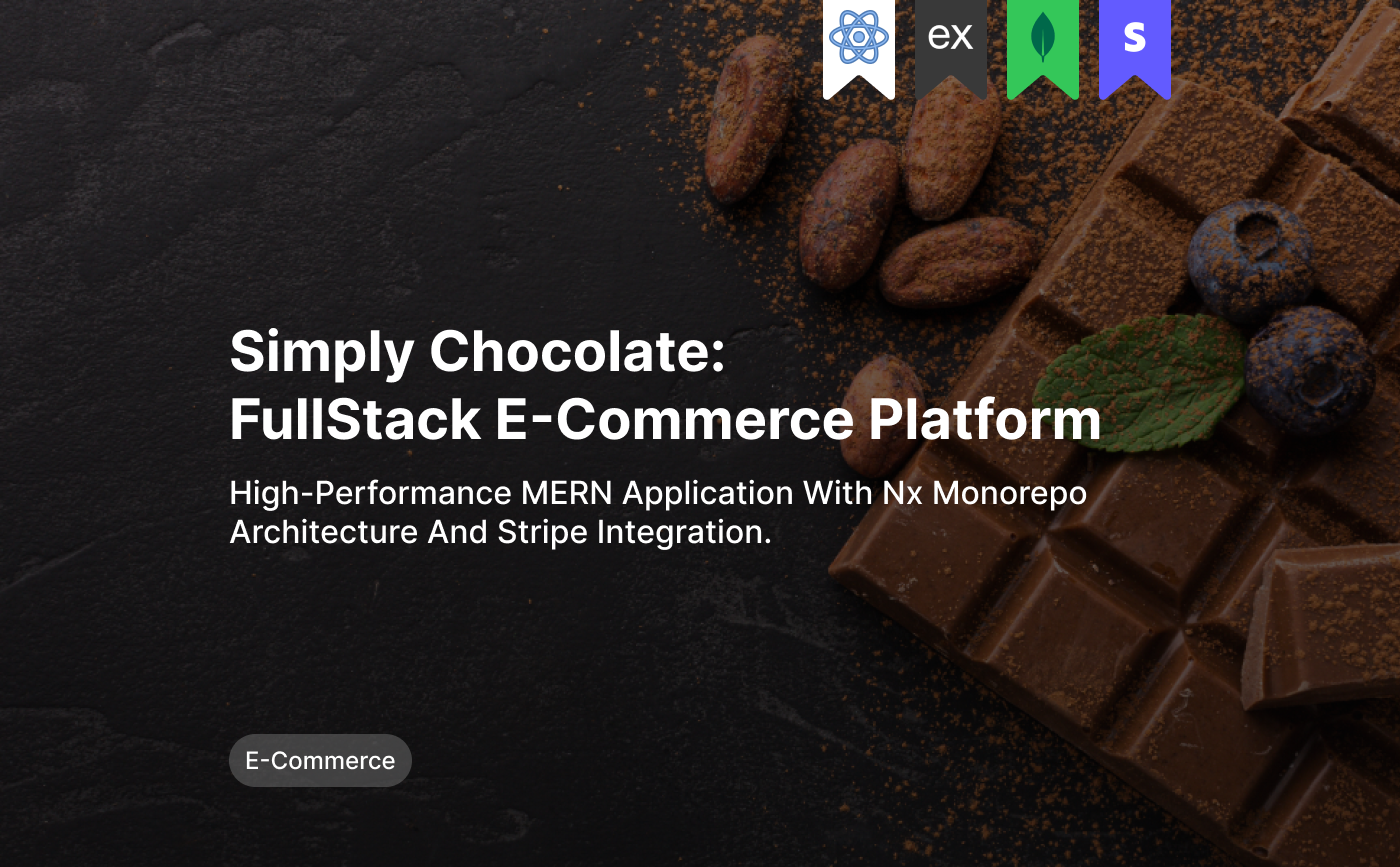
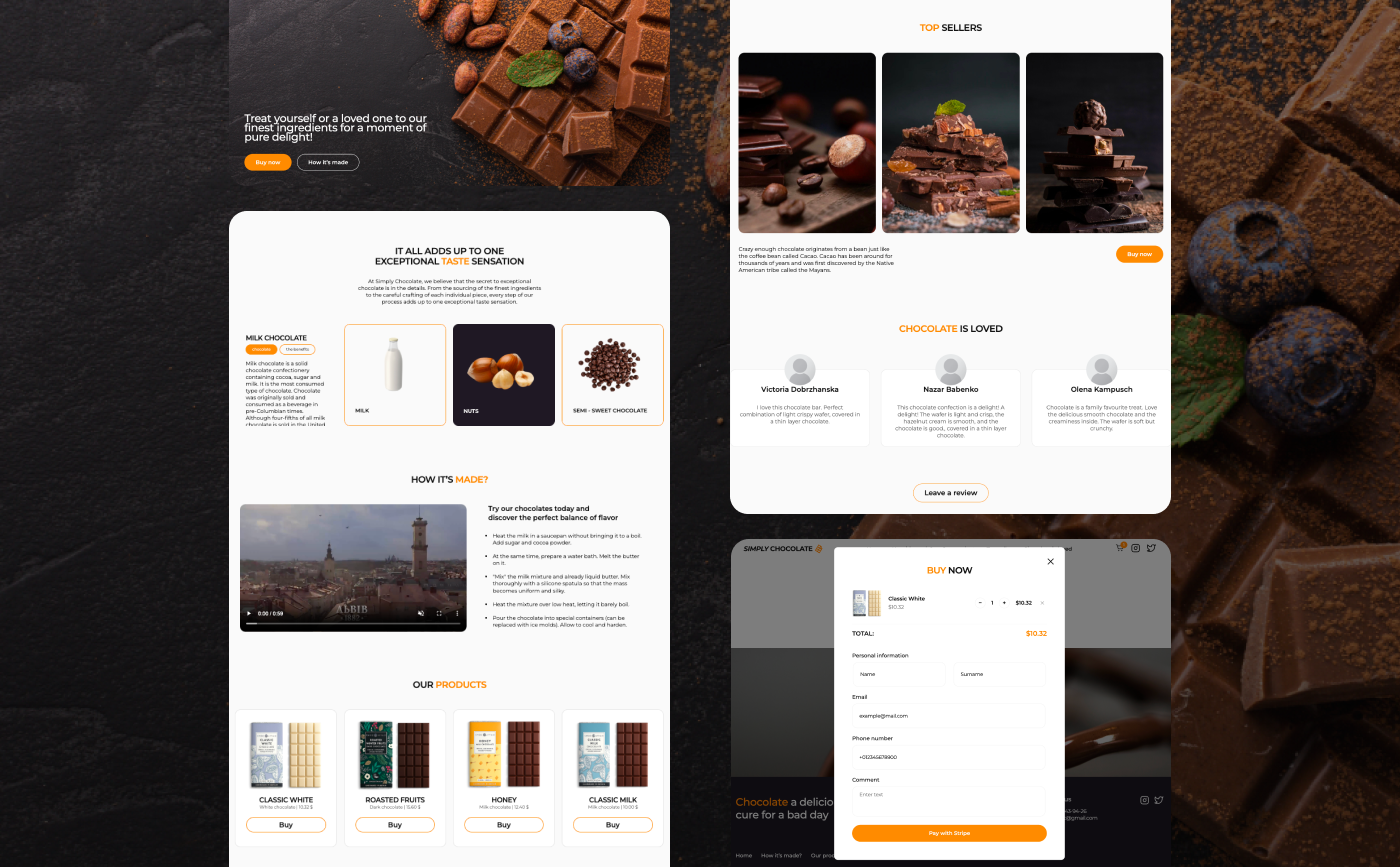
feat: add portfolio-progect page

diff --git a/src/constants/portfolio.constants.ts b/src/constants/portfolio.constants.ts
@@ -1,0 +1,122 @@
+import { type IProject } from "@/types/project.type";
+
+export const DEFAULT_PROJECT_PREVIEW = "/preview-pages.png";
+
+export const PORTFOLIO_PROJECTS: IProject[] = [
+  {
+    id: "drive-customizer",
+    title: "Drive Customizer: Interactive 3D Brand Visualizer",
+    role: "FullStack developer, DevOps, UI/UX designer",
+    description:
+      "Drive Customizer is a high-fidelity, full-stack 3D automotive configuration platform. The project showcases a seamless blend of immersive 3D graphics and modern web development, allowing users to interactively customize vehicles in real-time. It features a complete ecosystem-from an engaging landing page and model selection catalog to a sophisticated 3D editor and a community showcase-all built on a robust, scalable architecture.",
+    skills: ['TypeScript',
+      'Tailwind CSS',
+      'Next.js',
+      'NestJS',
+      'Three.js'],
+    liveUrl: "https://drive-customizer.vercel.app/",
+    image: "/dc.png",
+    previewImage: "/dcp.png",
+    overview: {
+      title: "The Task",
+      description:
+        "The primary objective was to build a sophisticated 3D application that bridges the gap between high-end visual rendering and a functional, multi-page user flow. The challenge was to ensure that complex 3D assets could be manipulated smoothly while maintaining data persistence across the entire application.",
+      points: [
+        'Implementing a real-time 3D engine capable of high-performance material and component manipulation.',
+        'Developing a multi-page navigation system that allows users to browse, select, and view 3D models without performance bottlenecks.',
+        'Building a modular and secure backend to manage model data and save unique user configurations.',
+        'Synchronizing complex 3D scene states with a modern UI to provide instantaneous visual feedback.',
+        'Ensuring the application is fully optimized for cloud deployment and fast loading times.',
+
+      ],
+    },
+    result: {
+      title: "The Result",
+      description:
+        "I engineered a professional Full-Stack platform with a focus on visual excellence and technical performance:",
+      points: [
+        'Immersive 3D Experience: Developed using React Three Fiber (Three.js), featuring real-time material updates, optimized lighting, and interactive mesh selection for a high-fidelity car configuration.',
+        'Modern Frontend Architecture: Leveraged Next.js and TypeScript to create a SEO-friendly, fast, and type-safe multi-page application with seamless transitions.',
+        'Scalable Backend & Data Persistence: Built a robust NestJS API integrated with MongoDB, ensuring efficient storage of complex car configurations and user-generated data.',
+        'Advanced State Management: Utilized Zustand to synchronize the 3D scene\'s state with the UI, providing instantaneous feedback without performance overhead.',
+        'Polished UI/UX: Crafted a sleek, responsive interface using Tailwind CSS, ensuring a consistent experience across desktops, tablets, and smartphones.',
+        'Reliable Cloud Deployment: Successfully deployed and configured the entire ecosystem on Vercel, optimizing it for production-ready performance.',
+      ],
+    },
+  },
+  {
+    id: "simple-chocolate",
+    title: "Simply Chocolate: FullStack E-Commerce Platform",
+    role: "FullStack developer and DevOps",
+    description:
+      "Simple chocolate is a modern, high-performance e-commerce platform designed for a boutique chocolate store. The project demonstrates a full-cycle development approach, from architecting a scalable Nx Monorepo to implementing secure payment processing. It features a seamless user experience, a robust product management system, and a responsive design.",
+    skills: ['React',
+      'ExpressJS',
+      'MongoDB',
+      'Stripe',
+      'DevOps'],
+    liveUrl: "https://my-simply-chocolate.vercel.app/",
+    image: "/sc.png",
+    previewImage: "/scp.png",
+
+    overview: {
+      title: "The Task",
+      description:
+        "The goal was to create a launch-ready online store capable of handling high traffic and processing complex data structures, while ensuring maximum security for user transactions.",
+      points: [
+        'Developing a scalable architecture to support future functionality expansion.',
+        'Integrating a reliable and secure payment gateway.',
+        'Ensuring full responsiveness and optimization of the application across all devices.',
+        'Deploying the application on cloud platforms.',
+      ],
+    },
+    result: {
+      title: "The Result",
+      description:
+        "I developed a professional FullStack application with the following key features:",
+      points: [
+        'Robust architecture: I used Nx Monorepo to organize the codebase into reusable libraries and applications, which significantly improved maintainability.',
+        'Secure transactions: I integrated the Stripe API, which ensures secure credit card processing and real-time payment confirmation.',
+        'Data reliability: I built a custom REST API based on Node.js and MongoDB with optimized schemas for products and customer reviews.',
+        'Modern UI/UX: Used React to create a smooth, interactive interface with fast loading times and seamless transitions.',
+        'Real-time deployment: Successfully deployed the frontend on Vercel and the backend on Render, ensuring a stable and fast production environment.',
+      ],
+    },
+  },
+  {
+    id: "harry-potter",
+    title: "Harry Potter: The Wizarding World Encyclopedia",
+    role: "FrontEnd Developer",
+    description:
+      "Hogwarts Explorer is a dynamic, interactive web application designed for fans of the Wizarding World. The project is an API-driven encyclopedia that allows users to discover characters, filter them by houses, search for favorites, and view detailed information. It demonstrates a professional approach to building multi-page applications using modern JavaScript, modular SCSS, and efficient data handling.",
+    skills: ["Pages", "JavaScript", "HTML", "SCSS", "REST API"],
+    liveUrl: "https://d-r-a-k-e-n.github.io/Harry-Potter/",
+    image: "/hp.png",
+    previewImage: "/hpp.png",
+    overview: {
+      title: "The Task",
+      description:
+        "The goal was to create an engaging, fast, and visually appealing character database that feels like a part of the Harry Potter universe. The challenge was to handle a large dataset from an external API while maintaining high performance and clean code.",
+      points: [
+        "Implementing a robust search and filtering system (by House).",
+        "Creating a multi-page structure with dynamic routing for character details.",
+        "Achieving a high level of UI/UX polish using advanced SCSS techniques.",
+      ],
+    },
+    result: {
+      title: "The Result",
+      description:
+        "I developed a high-quality FrontEnd application with a focus on performance and maintainability:",
+      points: [
+        "Dynamic Data Rendering: Developed a custom engine in Vanilla JavaScript to fetch data from the HP-API and dynamically generate content, reducing initial load time.",
+        "Scalable Styling: Used SCSS with a modular structure, which allowed for easy management and consistent UI components across all pages.",
+        "Advanced Interactivity: Implemented criteria filtering, providing users with an instant response without reloading the page.",
+        "Adaptive Layout: Developed a mobile-first responsive design that looks magical on any screen size, from small smartphones to large monitors.",
+      ],
+    },
+  },
+] as const;
+
+export function getProjectById(id: string): IProject | undefined {
+  return PORTFOLIO_PROJECTS.find((project) => project.id === id);
+}

diff --git a/src/components/portfolio/projectCase.tsx b/src/components/portfolio/projectCase.tsx
@@ -1,0 +1,153 @@
+import Image from "next/image";
+import Link from "next/link";
+import { Button } from "@/components/ui/button";
+import { Separator } from "@/components/ui/separator";
+import { type IProject } from "@/types/project.type";
+import { ROUTS_CONSTANTS } from "@/constants/routs.constants";
+
+type ProjectCaseProps = {
+  project: IProject;
+};
+
+export default function ProjectCase({ project }: ProjectCaseProps) {
+
+  return (
+    <article className="mx-auto w-full max-w-7xl px-4 py-8 sm:px-8 lg:px-16">
+      <Link
+        href={ROUTS_CONSTANTS.PORTFOLIO}
+        className="mb-8 inline-block text-sm transition-colors hover:text-secondary"
+      >
+        ← Back to Portfolio
+      </Link>
+
+      <header className="mb-10 flex flex-col gap-8 lg:mb-16 lg:flex-row lg:items-start lg:justify-between lg:gap-16">
+        <div className="min-w-0 flex-1">
+          <h1 className="mb-4 text-3xl sm:text-4xl md:text-5xl lg:text-6xl">
+            {project.title}
+          </h1>
+          <p className="mb-6 text-lg text-secondary sm:text-xl">
+            My role. {project.role}
+          </p>
+          <p className="mb-8 max-w-2xl text-sm sm:text-base">
+            {project.description}
+          </p>
+
+          <div className="mb-8 flex flex-wrap gap-2 sm:gap-3">
+            {project.skills.map((skill) => (
+              <span
+                key={skill}
+                className="rounded-full border border-foreground/20 px-3 py-1 text-sm sm:px-4"
+              >
+                {skill}
+              </span>
+            ))}
+          </div>
+
+          <div className="flex flex-col gap-3 sm:flex-row sm:gap-4">
+            {project.liveUrl && (
+              <Link href={project.liveUrl} target="_blank" rel="noreferrer">
+                <Button variant="primary">View Live</Button>
+              </Link>
+            )}
+            {project.githubUrl && (
+              <Link href={project.githubUrl} target="_blank" rel="noreferrer">
+                <Button variant="outline">View Code</Button>
+              </Link>
+            )}
+          </div>
+        </div>
+
+        <div className="relative w-full shrink-0 overflow-hidden rounded-lg lg:w-105">
+          <Image
+            src={project.image}
+            alt={project.title}
+            width={840}
+            height={840}
+            className="h-auto w-full object-cover"
+            priority
+          />
+        </div>
+      </header>
+
+      <Separator className="mb-10 md:mb-14" />
+
+      <section className="mb-12 grid gap-6 md:mb-16 md:grid-cols-[1fr_2fr] md:gap-12">
+        <h2 className="text-2xl sm:text-3xl md:text-4xl">
+          Project Overview & Tech Stack
+        </h2>
+        <div>
+          <h3 className="mb-4 text-xl text-secondary sm:text-2xl">
+            {project.overview.title}
+          </h3>
+          <p className="mb-6 text-sm sm:text-base">
+            {project.overview.description}
+          </p>
+          <p className="mb-3 font-medium">Key requirements included:</p>
+          <ul className="list-disc space-y-2 pl-5 text-sm sm:text-base">
+            {project.overview.points.map((point) => (
+              <li key={point}>{point}</li>
+            ))}
+          </ul>
+        </div>
+      </section>
+
+      <section className="mb-12 md:mb-16">
+        <div className="mb-6 md:mb-8">
+          <h2 className="mb-2 text-2xl sm:text-3xl md:text-4xl">
+            Interface Preview
+          </h2>
+          <p className="max-w-2xl text-sm text-foreground/70 sm:text-base">
+            A look at the main screens and key UI flows across the product.
+          </p>
+        </div>
+        <div className="overflow-hidden rounded-xl bg-tertiary p-2 sm:p-4 md:rounded-2xl md:p-6">
+          <Image
+            src={project.previewImage}
+            alt={`${project.title} interface preview`}
+            width={1000}
+            height={1000}
+            className="h-auto w-full rounded-lg"
+          />
+        </div>
+      </section>
+
+      <Separator className="mb-10 md:mb-14" />
+
+      <section className="mb-12 grid gap-6 md:mb-16 md:grid-cols-[1fr_2fr] md:gap-12">
+        <h2 className="text-2xl sm:text-3xl md:text-4xl">
+          User Interface & Key Features
+        </h2>
+        <div>
+          <h3 className="mb-4 text-xl text-secondary sm:text-2xl">
+            {project.result.title}
+          </h3>
+          <p className="mb-6 text-sm sm:text-base">
+            {project.result.description}
+          </p>
+          <ul className="list-disc space-y-3 pl-5 text-sm sm:text-base">
+            {project.result.points.map((point) => (
+              <li key={point}>{point}</li>
+            ))}
+          </ul>
+        </div>
+      </section>
+
+      {project.liveUrl && (
+        <>
+          <Separator className="mb-10 md:mb-14" />
+          <section className="flex flex-col items-start gap-4 sm:flex-row sm:items-center sm:justify-between">
+            <div>
+              <h2 className="mb-2 text-2xl sm:text-3xl">See it live</h2>
+              <p className="text-sm text-foreground/70 sm:text-base">
+                Open the deployed project and explore the full experience.
+              </p>
+            </div>
+            <Link href={project.liveUrl} target="_blank" rel="noreferrer">
+              <Button variant="primary">Open Project</Button>
+            </Link>
+          </section>
+        </>
+      )}
+    </article>
+  );
+}

diff --git a/src/components/sections/portfolioSection.tsx b/src/components/sections/portfolioSection.tsx
@@ -1,36 +1,13 @@
 import Image from "next/image";
 import Link from "next/link";
+import { PORTFOLIO_PROJECTS } from "@/constants/portfolio.constants";
 
 export default function PortfolioSection() {
-  const projects = [
-    {
-      id: 1,
-      title: "Tennis Company",
-      description:
-        "A tristique nulla faucibus in quam metus, eget. Id eleifend arcuA tristique nulla faucibus in quam metus",
-      image: "/scp.png",
-    },
-    {
-      id: 2,
-      title: "Tennis Company",
-      description:
-        "A tristique nulla faucibus in quam metus, eget. Id eleifend arcuA tristique nulla faucibus in quam metus",
-      image: "/scp.png",
-    },
-    {
-      id: 3,
-      title: "Tennis Company",
-      description:
-        "A tristique nulla faucibus in quam metus, eget. Id eleifend arcuA tristique nulla faucibus in quam metus",
-      image: "/scp.png",
-    },
-  ];
-
   return (
     <section id="portfolio" className="mb-16 w-full md:mb-30">
       <h2 className="mb-6 text-3xl sm:text-4xl md:text-5xl">Portfolio</h2>
       <div className="flex w-full flex-row gap-4 overflow-x-auto pb-2 sm:gap-6">
-        {projects.map((project) => (
+        {PORTFOLIO_PROJECTS.map((project) => (
           <Link
             href={`/portfolio-project/${project.id}`}
             key={project.id}
@@ -41,7 +18,7 @@ export default function PortfolioSection() {
               alt={project.title}
               width={600}
               height={600}
-              className="mb-4 h-auto w-64 rounded-lg sm:w-80 md:w-[400px] lg:w-[500px]"
+              className="mb-4 h-auto w-88 rounded-lg sm:w-80 md:w-[400px] lg:w-[500px]"
             />
           </Link>
         ))}

diff --git a/src/app/portfolio-project/[id]/page.tsx b/src/app/portfolio-project/[id]/page.tsx
@@ -1,12 +1,41 @@
-"use client";
+import { notFound } from "next/navigation";
+import ProjectCase from "@/components/portfolio/projectCase";
+import {
+  getProjectById,
+  PORTFOLIO_PROJECTS,
+} from "@/constants/portfolio.constants";
 
-import { useParams } from "next/navigation";
+type PortfolioProjectPageProps = {
+  params: Promise<{ id: string }>;
+};
 
-export default function PostfolioProgectPage() {
-  const { id } = useParams();
-  return (
-    <div>
-      <h1>Postfolio Progect ID: {id as string}</h1>
-    </div>
-  );
+export function generateStaticParams() {
+  return PORTFOLIO_PROJECTS.map((project) => ({ id: project.id }));
+}
+
+export async function generateMetadata({ params }: PortfolioProjectPageProps) {
+  const { id } = await params;
+  const project = getProjectById(id);
+
+  if (!project) {
+    return { title: "Project not found" };
+  }
+
+  return {
+    title: project.title,
+    description: project.description,
+  };
+}
+
+export default async function PortfolioProjectPage({
+  params,
+}: PortfolioProjectPageProps) {
+  const { id } = await params;
+  const project = getProjectById(id);
+
+  if (!project) {
+    notFound();
+  }
+
+  return <ProjectCase project={project} />;
 }

diff --git a/src/types/project.type.ts b/src/types/project.type.ts
@@ -1,0 +1,19 @@
+export interface IProjectSection {
+  title: string;
+  description: string;
+  points: string[];
+};
+
+export interface IProject {
+  id: string;
+  title: string;
+  role: string;
+  description: string;
+  skills: string[];
+  liveUrl?: string;
+  githubUrl?: string;
+  image: string;
+  previewImage: string;
+  overview: IProjectSection;
+  result: IProjectSection;
+};
